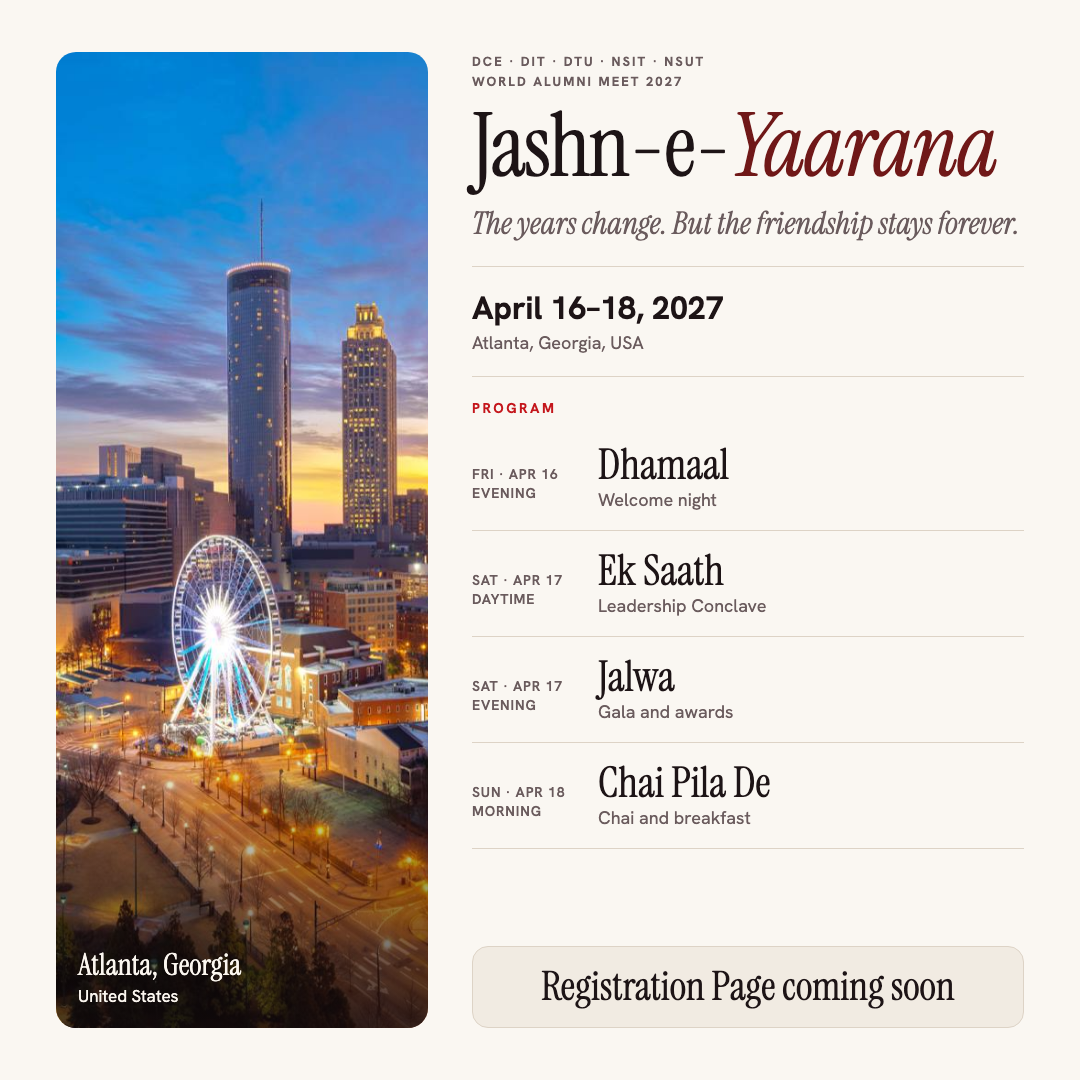
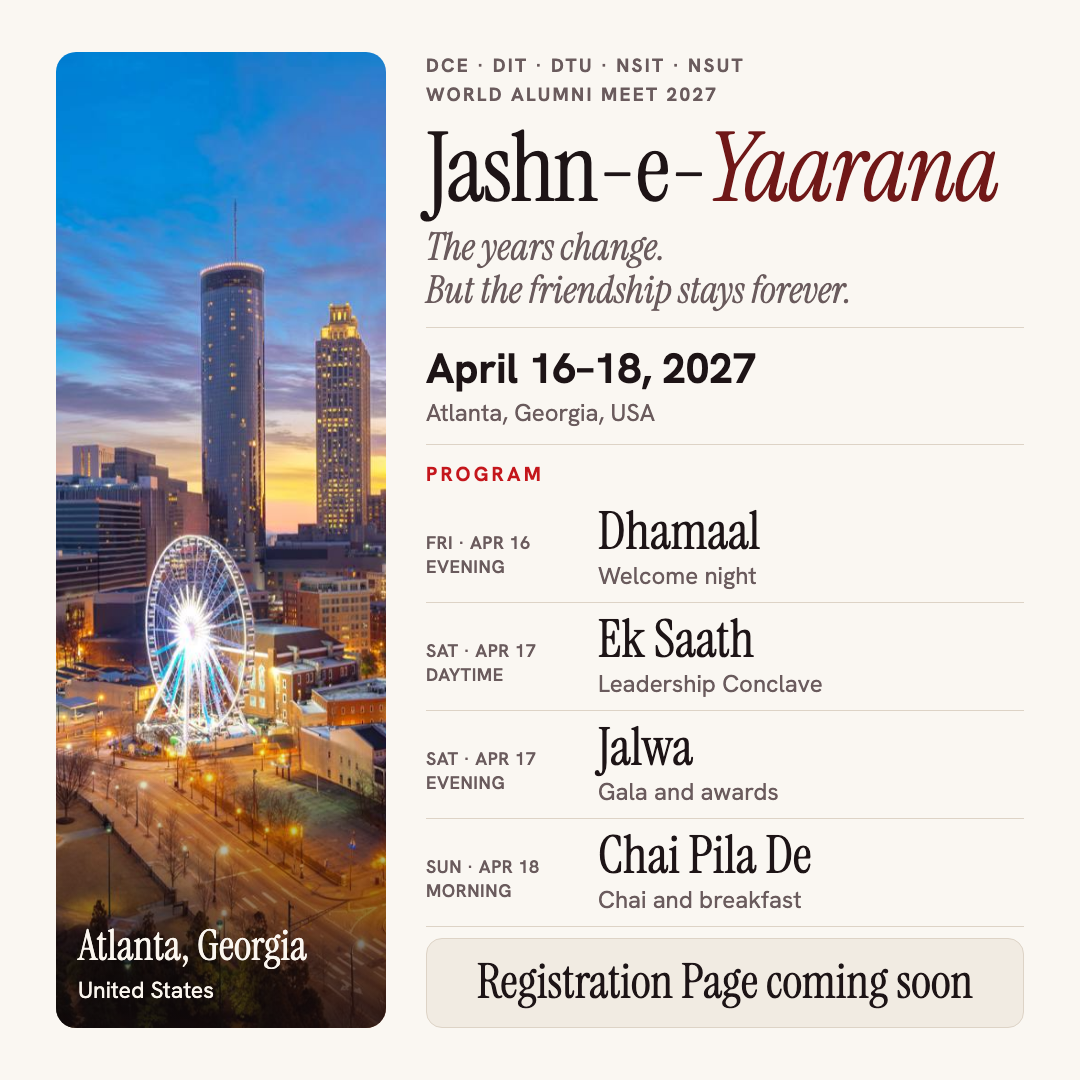
Flyer: larger text throughout (feedback: fonts too small on phones)

diff --git a/flyer/flyer.html b/flyer/flyer.html
@@ -5,26 +5,26 @@
 :root { --bg:#faf7f2; --ink:#1d1416; --muted:#6a5b5d; --maroon:#701818; --red:#c4161c; --line:#ddd3c6; }
 * { box-sizing: border-box; margin: 0; }
 html, body { width: 1080px; height: 1080px; background: var(--bg); color: var(--ink); font-family: "Hanken Grotesk", system-ui, sans-serif; }
-.page { position: relative; width: 1080px; height: 1080px; padding: 52px 56px; display: grid; grid-template-columns: 372px 1fr; gap: 44px; }
+.page { position: relative; width: 1080px; height: 1080px; padding: 52px 56px; display: grid; grid-template-columns: 330px 1fr; gap: 40px; }
 .photo { position: relative; border-radius: 20px; overflow: hidden; height: 976px; }
 .photo img { width: 100%; height: 100%; object-fit: cover; object-position: 64% 50%; display: block; }
 .photo::after { content: ""; position: absolute; inset: 0; background: linear-gradient(180deg, transparent 70%, rgba(19,11,12,.78) 100%); }
-.photo .cap { position: absolute; left: 22px; right: 22px; bottom: 20px; z-index: 1; color: #fbf6ef; font-size: 17px; line-height: 1.35; }
-.photo .cap b { display: block; font-family: "Instrument Serif", serif; font-weight: 400; font-size: 30px; }
+.photo .cap { position: absolute; left: 22px; right: 22px; bottom: 22px; z-index: 1; color: #fbf6ef; font-size: 23px; line-height: 1.35; }
+.photo .cap b { display: block; font-family: "Instrument Serif", serif; font-weight: 400; font-size: 42px; }
 .right { display: flex; flex-direction: column; min-width: 0; }
-.kicker { font-size: 13px; font-weight: 700; letter-spacing: .16em; text-transform: uppercase; color: var(--muted); line-height: 1.5; }
-h1 { font-family: "Instrument Serif", serif; font-weight: 400; font-size: 88px; line-height: .95; white-space: nowrap; letter-spacing: -.02em; margin-top: 14px; }
+.kicker { font-size: 19px; font-weight: 700; letter-spacing: .12em; text-transform: uppercase; color: var(--muted); line-height: 1.5; }
+h1 { font-family: "Instrument Serif", serif; font-weight: 400; font-size: 96px; line-height: .95; white-space: nowrap; letter-spacing: -.02em; margin-top: 14px; }
 h1 em { font-style: italic; color: var(--maroon); }
-.tag { font-family: "Instrument Serif", serif; font-style: italic; font-size: 31px; color: var(--muted); margin-top: 14px; }
-.rule { height: 1px; background: var(--line); margin: 22px 0; }
-.when { font-size: 32px; font-weight: 700; line-height: 1.2; }
-.where { font-size: 18px; color: var(--muted); margin-top: 4px; }
-h2 { font-size: 14px; font-weight: 700; letter-spacing: .18em; text-transform: uppercase; color: var(--red); margin-bottom: 8px; }
-.ev { display: grid; grid-template-columns: 112px 1fr; gap: 14px; padding: 19px 0; border-bottom: 1px solid var(--line); align-items: baseline; }
+.tag { font-family: "Instrument Serif", serif; font-style: italic; font-size: 38px; line-height: 1.12; color: var(--muted); margin-top: 12px; }
+.rule { height: 1px; background: var(--line); margin: 16px 0; }
+.when { font-size: 42px; font-weight: 700; line-height: 1.2; }
+.where { font-size: 24px; color: var(--muted); margin-top: 2px; }
+h2 { font-size: 20px; font-weight: 700; letter-spacing: .16em; text-transform: uppercase; color: var(--red); margin-bottom: 8px; }
+.ev { display: grid; grid-template-columns: 158px 1fr; gap: 14px; padding: 11px 0; border-bottom: 1px solid var(--line); align-items: baseline; }
 .ev:first-of-type { border-top: 1px solid var(--line); }
-.ev .d { font-size: 14px; font-weight: 600; letter-spacing: .06em; text-transform: uppercase; color: var(--muted); line-height: 1.35; }
-.ev .n { font-family: "Instrument Serif", serif; font-size: 42px; line-height: 1; }
-.ev .m { font-size: 18px; color: var(--muted); margin-top: 2px; }
+.ev .d { font-size: 18px; font-weight: 600; letter-spacing: .03em; text-transform: uppercase; color: var(--muted); line-height: 1.35; }
+.ev .n { font-family: "Instrument Serif", serif; font-size: 52px; line-height: 1; }
+.ev .m { font-size: 24px; color: var(--muted); margin-top: 2px; }
 .price { display: grid; grid-template-columns: 1fr auto; gap: 2px 16px; padding: 5px 0; border-bottom: 1px solid var(--line); align-items: baseline; }
 .price:first-of-type { border-top: 1px solid var(--line); }
 .price b { font-size: 16px; }
@@ -33,7 +33,7 @@ h2 { font-size: 14px; font-weight: 700; letter-spacing: .18em; text-transform: u
 .extra { font-size: 13px; color: var(--muted); margin-top: 8px; line-height: 1.45; }
 .reg { margin-top: auto; background: #f1ebe2; color: var(--ink); border: 1.5px solid var(--line); border-radius: 16px; padding: 18px 26px 20px; }
 .reg small { display: block; font-size: 12px; letter-spacing: .16em; text-transform: uppercase; opacity: .8; font-weight: 700; }
-.reg b { display: block; font-family: "Instrument Serif", serif; font-weight: 400; font-size: 40px; margin-top: 0; text-align: center; line-height: 1.05; }
+.reg b { display: block; font-family: "Instrument Serif", serif; font-weight: 400; font-size: 48px; margin-top: 0; text-align: center; line-height: 1.05; }
 </style></head>
 <body><div class="page">
   <div class="photo"><img src="hero-skyline.jpg" alt="">
@@ -41,7 +41,7 @@ h2 { font-size: 14px; font-weight: 700; letter-spacing: .18em; text-transform: u
   <div class="right">
     <p class="kicker">DCE · DIT · DTU · NSIT · NSUT<br>World Alumni Meet 2027</p>
     <h1>Jashn-e-<em>Yaarana</em></h1>
-    <p class="tag">The years change. But the friendship stays forever.</p>
+    <p class="tag">The years change.<br>But the friendship stays forever.</p>
     <div class="rule"></div>
     <p class="when">April 16–18, 2027</p>
     <p class="where">Atlanta, Georgia, USA</p>
